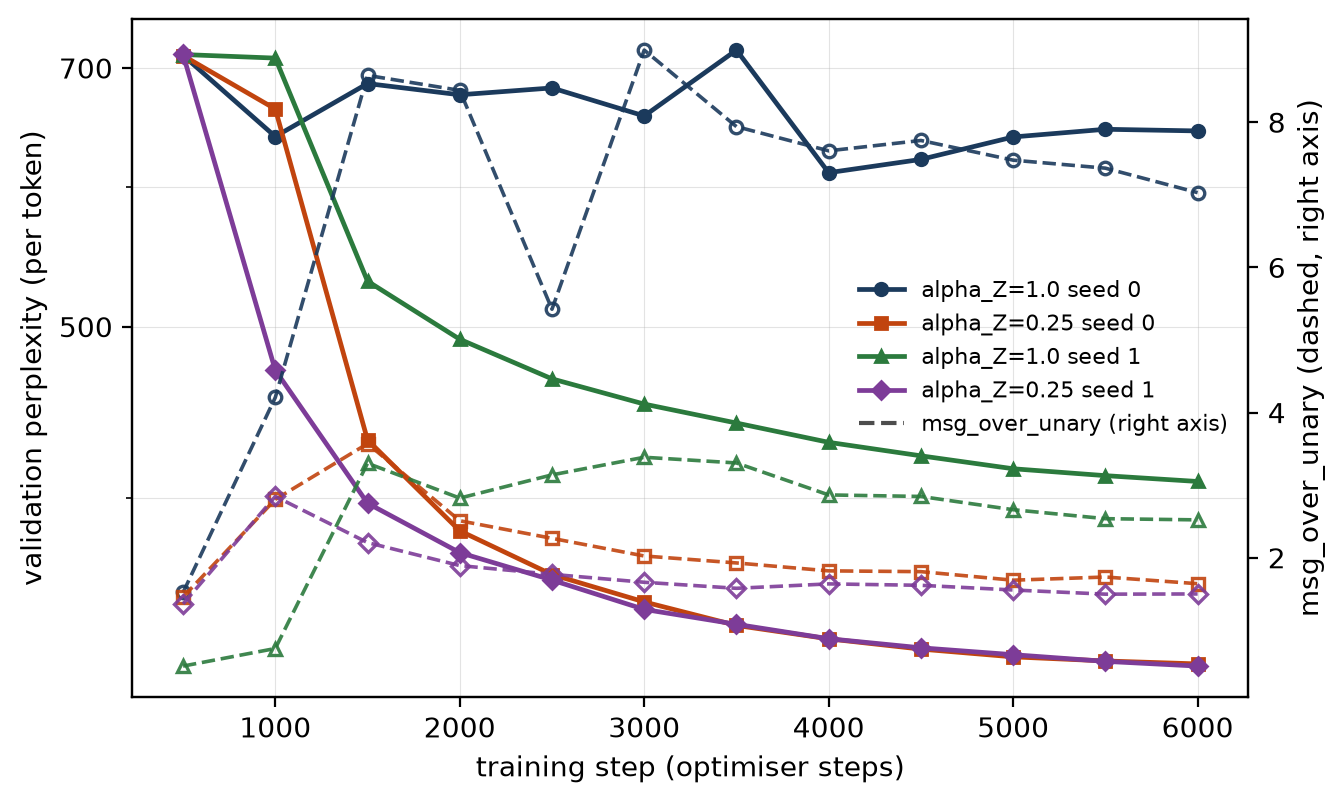
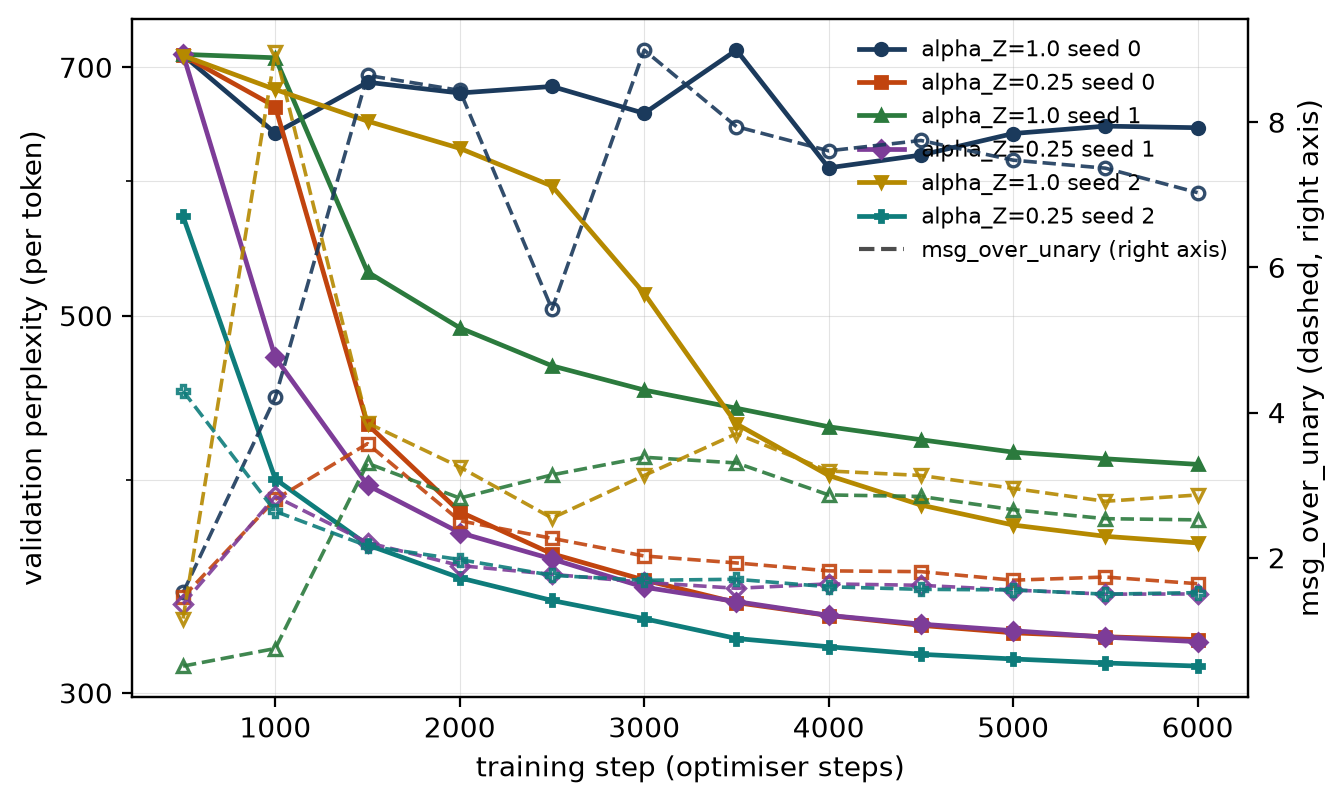
v1.5.3 [add]: Figure 4, the collapse mechanism within a run

diff --git a/paper/sections/04_experiments.tex b/paper/sections/04_experiments.tex
@@ -159,6 +159,12 @@ signature the mechanism predicts --- the message runs away (msg/unary $1.7 \to 1
 label beliefs then go flat (sharpness $1.09 \to 5.57 \to 1.34$, prefix-ablation KL exactly
 zero). \TODO{final numbers once grid A completes}
 
+\Cref{fig:mechanism} shows why, within a run, and it separates two failures that a
+final perplexity conflates: at $\nlab = 96$ the beliefs never leave the uniform point at all,
+while at $\nlab = 32$ they sharpen to $5.5$, hold for two thousand steps and then collapse back
+to uniform. Both end at the unigram baseline; only the second is the runaway the mechanism
+predicts, and only a within-run trace tells them apart.
+
 \Cref{fig:width}(b) is the repair. Standardising the head logits over the head domain before
 the softmax --- so that the attention pattern is invariant to the overall scale of the arc
 scores, and only their relative pattern selects --- revives widths that are entirely dead under
@@ -178,6 +184,21 @@ specific consequence of the factor-graph constraint, and it is the same price a 
 knowingly when it puts a layer normalisation in front of its attention. The variational reading
 survives for the content stream and the readout; it is the head-update temperature alone that
 steps outside.
+
+\begin{figure}[t]
+\centering
+\includegraphics[width=\columnwidth]{figures/fig_mechanism_sharp.png}
+\caption{The mechanism, within a run. Solid lines are validation perplexity (left axis), dashed
+lines the \emph{belief sharpness} $\|\QZ{}\|_2\sqrt{\nlab}$ (right axis), which is $1$ at the
+uniform belief and $\sqrt{\nlab}$ at a one-hot --- exactly the factor by which the effective
+attention temperature departs from the value $\lamH = 1/\nlab$ is calibrated for. At the source
+temperature the runs fail in two distinct ways: at $\nlab=96$ the beliefs never leave the
+uniform point, and at $\nlab=32$ they spike to $5.5$, hold, and then collapse back to it, taking
+perplexity nowhere in either case. Under the standardised temperature the sharpness rises
+smoothly to a moderate value and \emph{stays} there, and perplexity falls monotonically from the
+first evaluation. Both undamped; $\alpha_Z = 1$ throughout.}
+\label{fig:mechanism}
+\end{figure}
 
 \paragraph{Initialisation, and the global variables.}
 \label{sec:exp-ablations}
